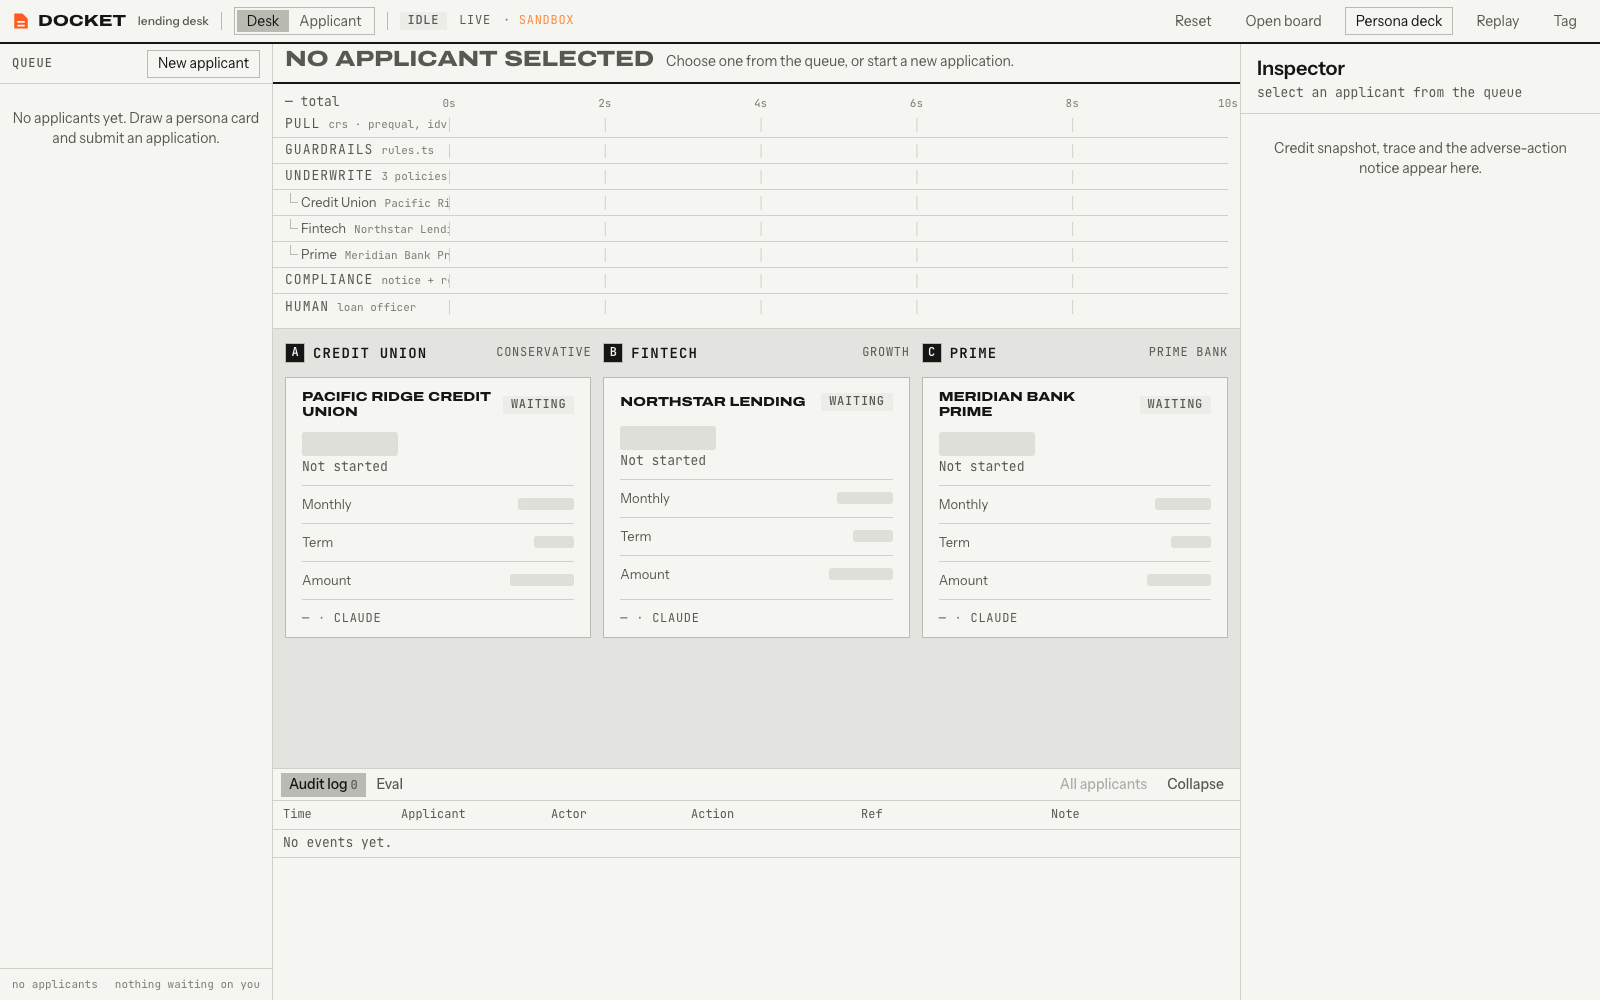
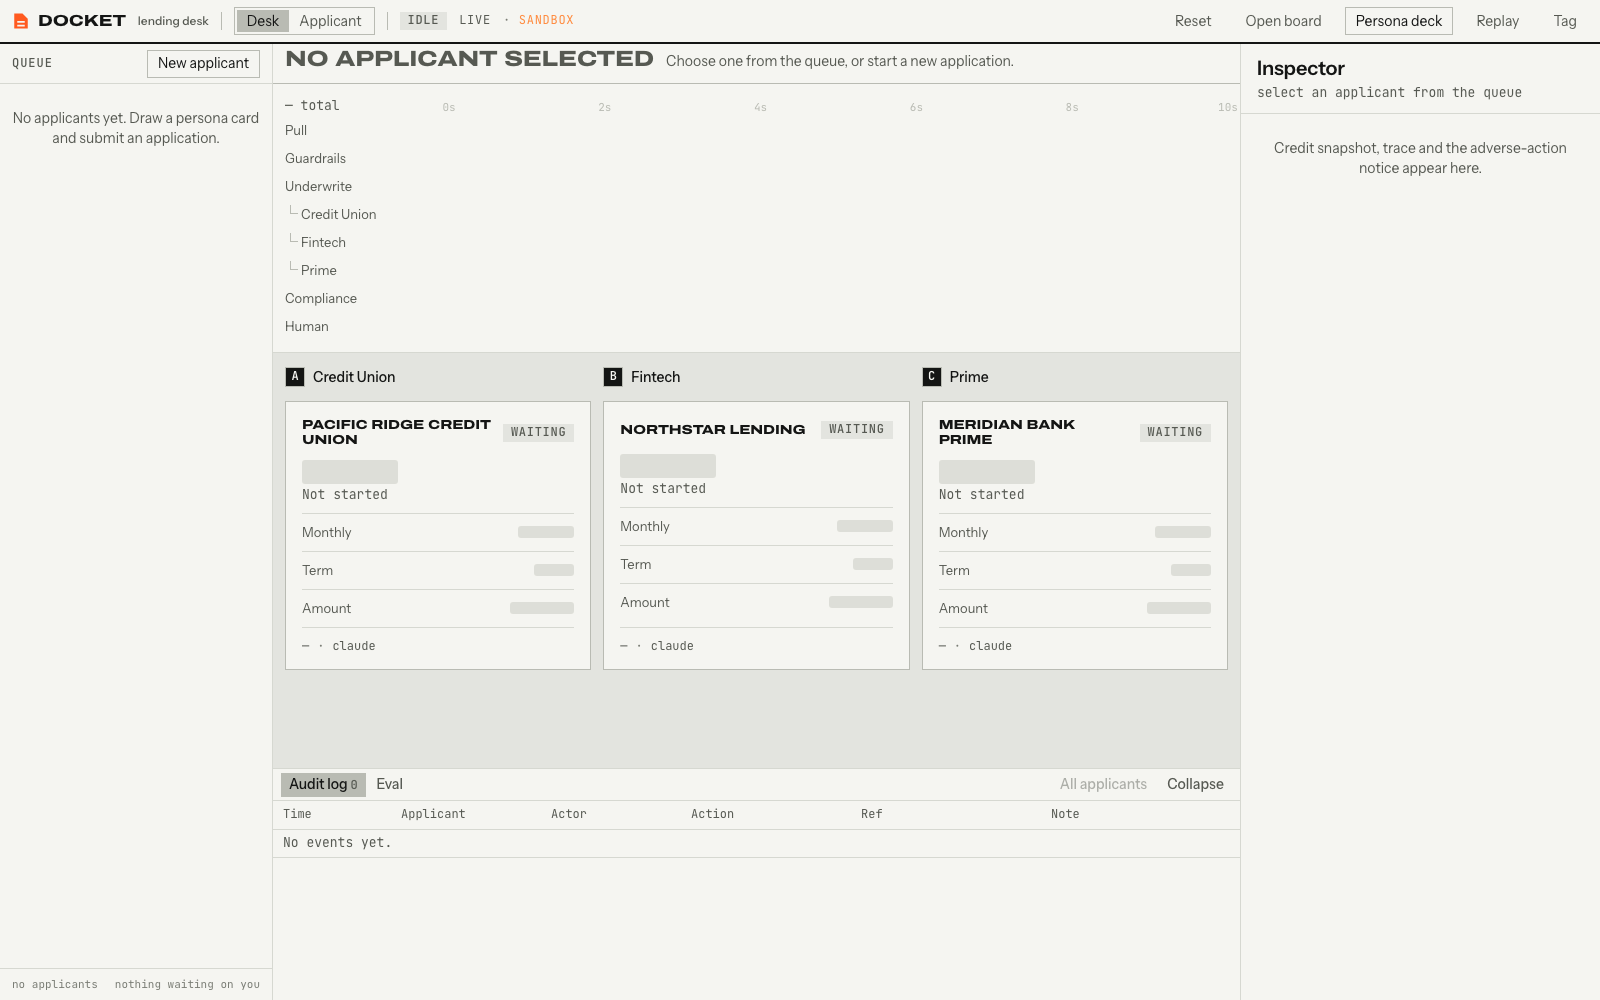
Console tag theme: quieter (two greys, no waterfall grid, sentence-case steps, pre-run metrics hidden)

diff --git a/web/src/index.css b/web/src/index.css
@@ -1935,3 +1935,24 @@ table.grid.tl tr:last-child td {
 :root[data-theme='tag'] .pane-foot { font-size: 11px; white-space: nowrap; gap: var(--sp-2); }
 :root[data-theme='tag'] .pane-foot span { overflow: hidden; text-overflow: ellipsis; }
 :root[data-theme='tag'] .board-head h2 { font-size: 22px; }
+
+/* Tag theme, quieter: two greys instead of three, no tick grid or row stripes in the waterfall,
+   sentence-case step names, pre-run metrics hidden, a little more air. */
+:root[data-theme='tag'] { --panel: #e3e4df; --card-2: #e3e4df; --hair: #d6d8d1; --wf-row-h: 28px; }
+:root[data-theme='tag'] .wf-row { border-bottom: 0; }
+:root[data-theme='tag'] .wf-row .lane { background-image: none; }
+:root[data-theme='tag'] .wf-row .lane::before { border-top: 0; }
+:root[data-theme='tag'] .wf-row .lbl::after { border-top-color: var(--hair); }
+:root[data-theme='tag'] .wf-row.queued .met,
+:root[data-theme='tag'] .wf-row.skipped .met { display: none; }
+:root[data-theme='tag'] .wf-row .nm { font-family: var(--sans); text-transform: none; letter-spacing: 0; font-size: var(--fs-small); }
+:root[data-theme='tag'] .wf-row.child .nm { color: var(--muted); }
+:root[data-theme='tag'] .wf-ruler .ticks { color: var(--hair-2); }
+:root[data-theme='tag'] .waterfall { padding-top: var(--sp-3); padding-bottom: var(--sp-3); }
+:root[data-theme='tag'] .col-head .nm { font-family: var(--sans); text-transform: none; letter-spacing: 0; font-weight: var(--wt-medium); }
+:root[data-theme='tag'] .col-head .chip { display: none; }
+:root[data-theme='tag'] .card { padding: var(--sp-4) var(--sp-4) var(--sp-3); }
+:root[data-theme='tag'] .card-foot .chip { text-transform: none; letter-spacing: 0; }
+:root[data-theme='tag'] .topbar .ghost { color: var(--muted); }
+:root[data-theme='tag'] .board-head { border-bottom: 1px solid var(--hair-2); }
+:root[data-theme='tag'] .inspector-head .name { font-family: var(--sans); }
